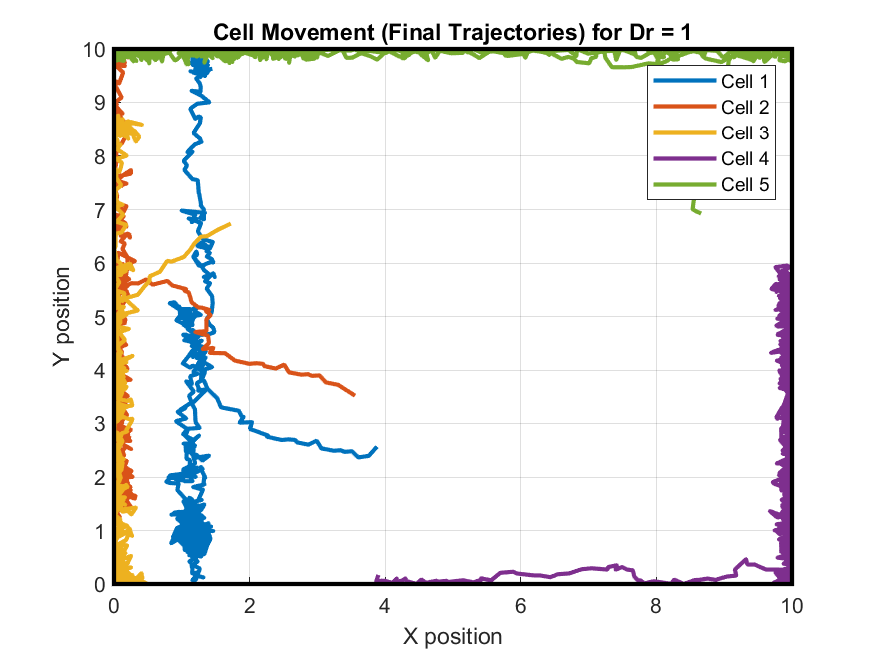
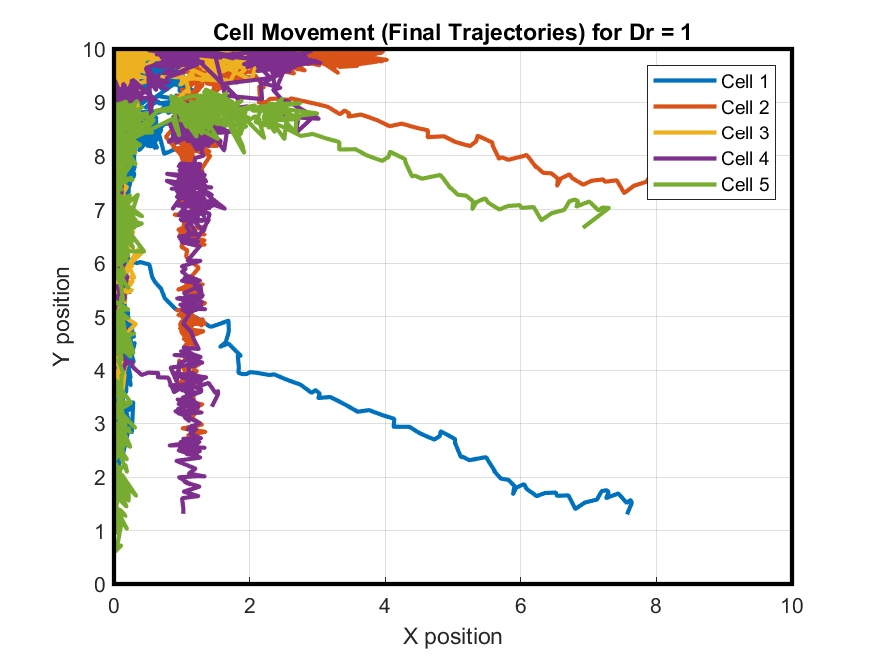
Wc=2

diff --git a/Models_2024_04/Model1_2D_Hconst_multi_boundary.m b/Models_2024_04/Model1_2D_Hconst_multi_boundary.m
@@ -16,7 +16,7 @@ start_time_full = tic;
 Dr_values = [0.1, 0.5, 1, 5, 100];
 num_cells = 5;  % Number of cells
 colors = lines(num_cells);  % Colors for each cell
-Wc = 1; % Cell-cell adhesion energy 
+Wc = 2; % Cell-cell adhesion energy 
 Ws = 1; % Cell-substrate adhesion energy 
 R = 1;  % Cell radius
 interaction_threshold = 2 * R;  % Set to 2R as per the model
